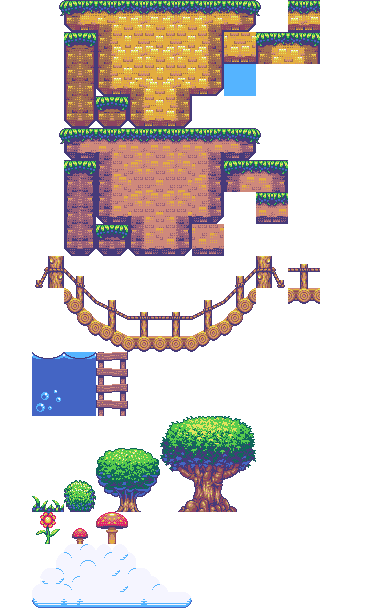
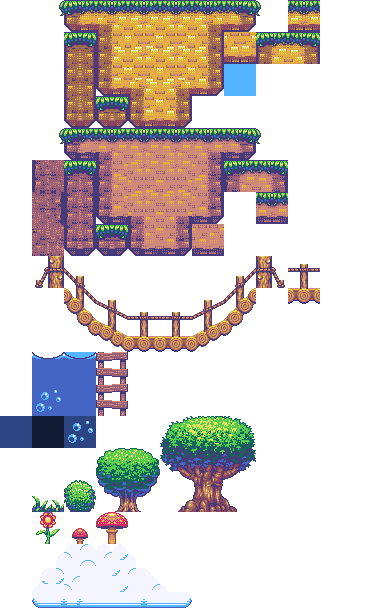
:fix: patch score hud

Changed region(s): [[0.0625, 0.25, 0.1875, 0.4375], [0.0, 0.6562, 0.25, 0.75]]

diff --git a/Resources/maps/TileKit.tsx b/Resources/maps/TileKit.tsx
@@ -1,0 +1,4 @@
+<?xml version="1.0" encoding="UTF-8"?>
+<tileset version="1.9" tiledversion="1.9.2" name="TileKit" tilewidth="32" tileheight="32" tilecount="228" columns="12">
+ <image source="TileKit.png" width="384" height="608"/>
+</tileset>

diff --git a/Classes/Scenes/MainGame.cpp b/Classes/Scenes/MainGame.cpp
@@ -105,6 +105,8 @@ void MainGame::update(float delta)
         hudLayer->setPositionY(hudLayer->getPositionY() - CAMERA_STEP * delta);
     }
    
+    // HUD
+    hudLayer->updateLemmingsScore();
 }
 
 bool MainGame::isKeyPressed(EventKeyboard::KeyCode code) {
@@ -158,14 +160,12 @@ bool MainGame::onContactEnter(PhysicsContact& contact)
         if (shapeA->getName() == "lemming" && shapeB->getName() == "exit door") {
             shapeA->removeFromParentAndCleanup(true);
             GameManager::IncreaseLemmingExit();
-            hudLayer->updateLemmingsScore();
             if (GameManager::IsEndOfLevel())
                 Director::getInstance()->replaceScene(EndLevelScene::createScene());
         }
         else if (shapeB->getName() == "lemming" && shapeA->getName() == "exit door") {
             shapeB->removeFromParentAndCleanup(true);
             GameManager::IncreaseLemmingExit();
-            hudLayer->updateLemmingsScore();
             if (GameManager::IsEndOfLevel())
                 Director::getInstance()->replaceScene(EndLevelScene::createScene());
         }

diff --git a/Classes/Layers/GameLayer.cpp b/Classes/Layers/GameLayer.cpp
@@ -10,7 +10,7 @@ bool GameLayer::init()
 {
 	if (!Layer::init()) return false;
 
-    MapLoader::LoadMap("maps/test.tmx", this);
+    MapLoader::LoadMap("maps/map2.tmx", this);
 
 	auto visibleSize = Director::getInstance()->getVisibleSize();
 	Vec2 origin = Director::getInstance()->getVisibleOrigin();
